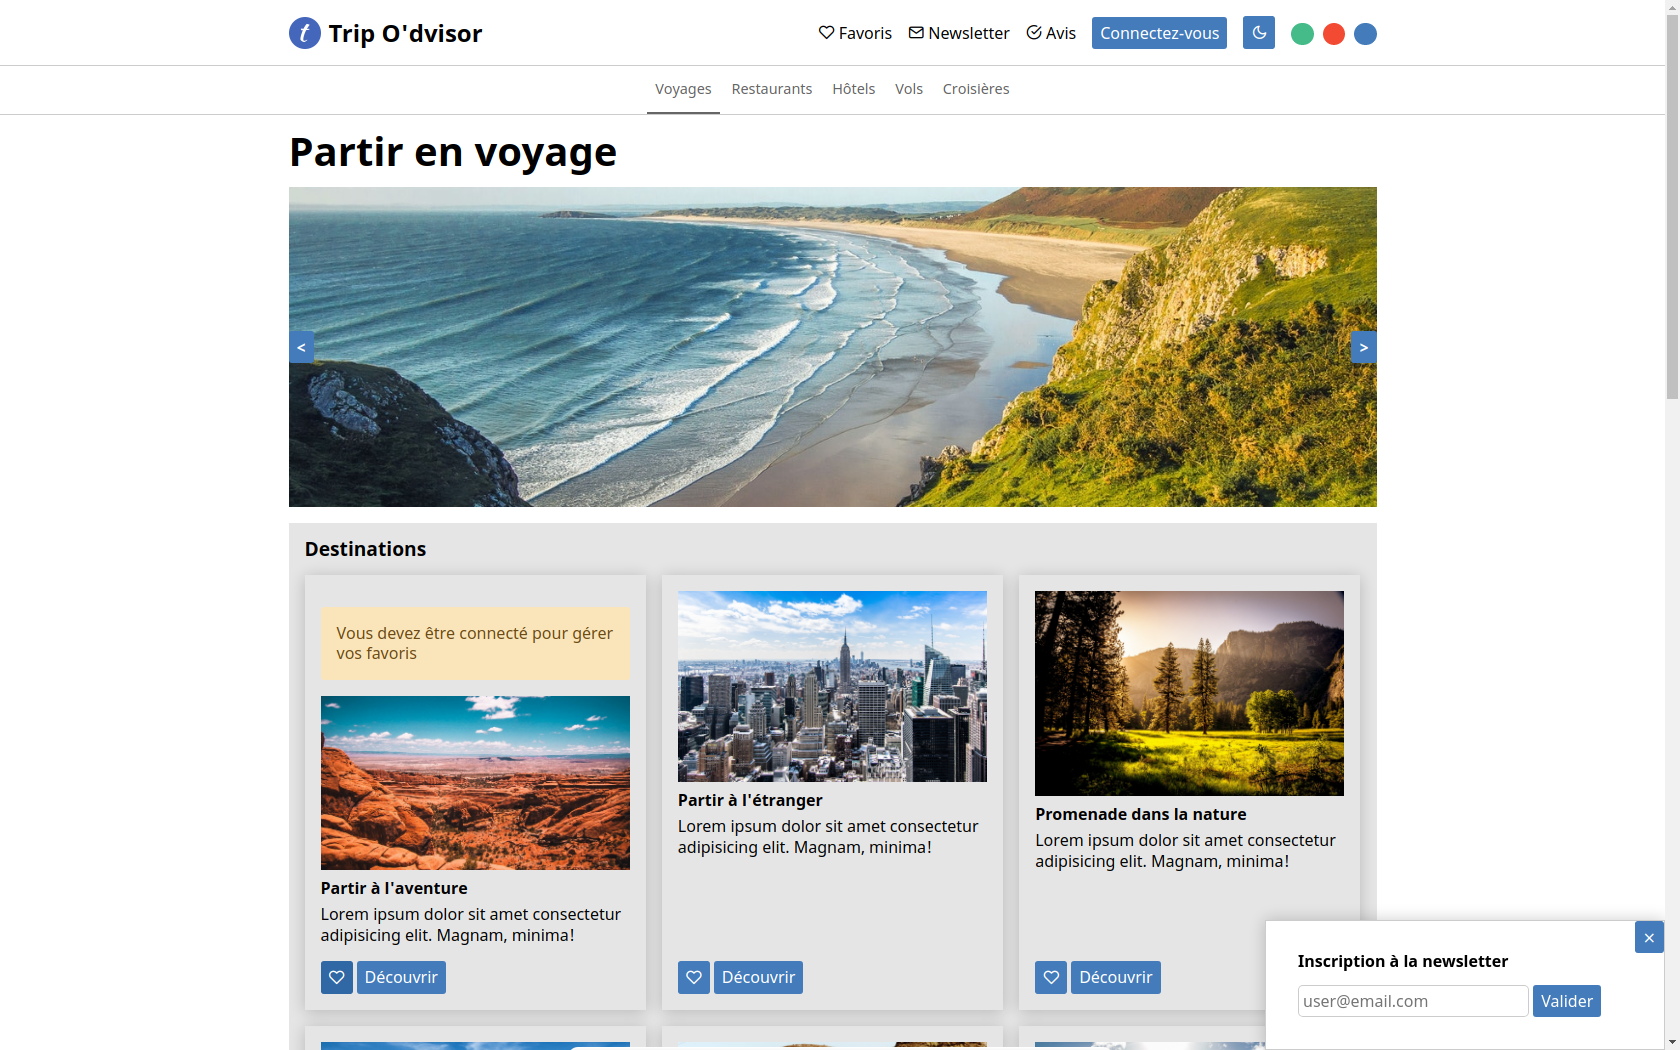
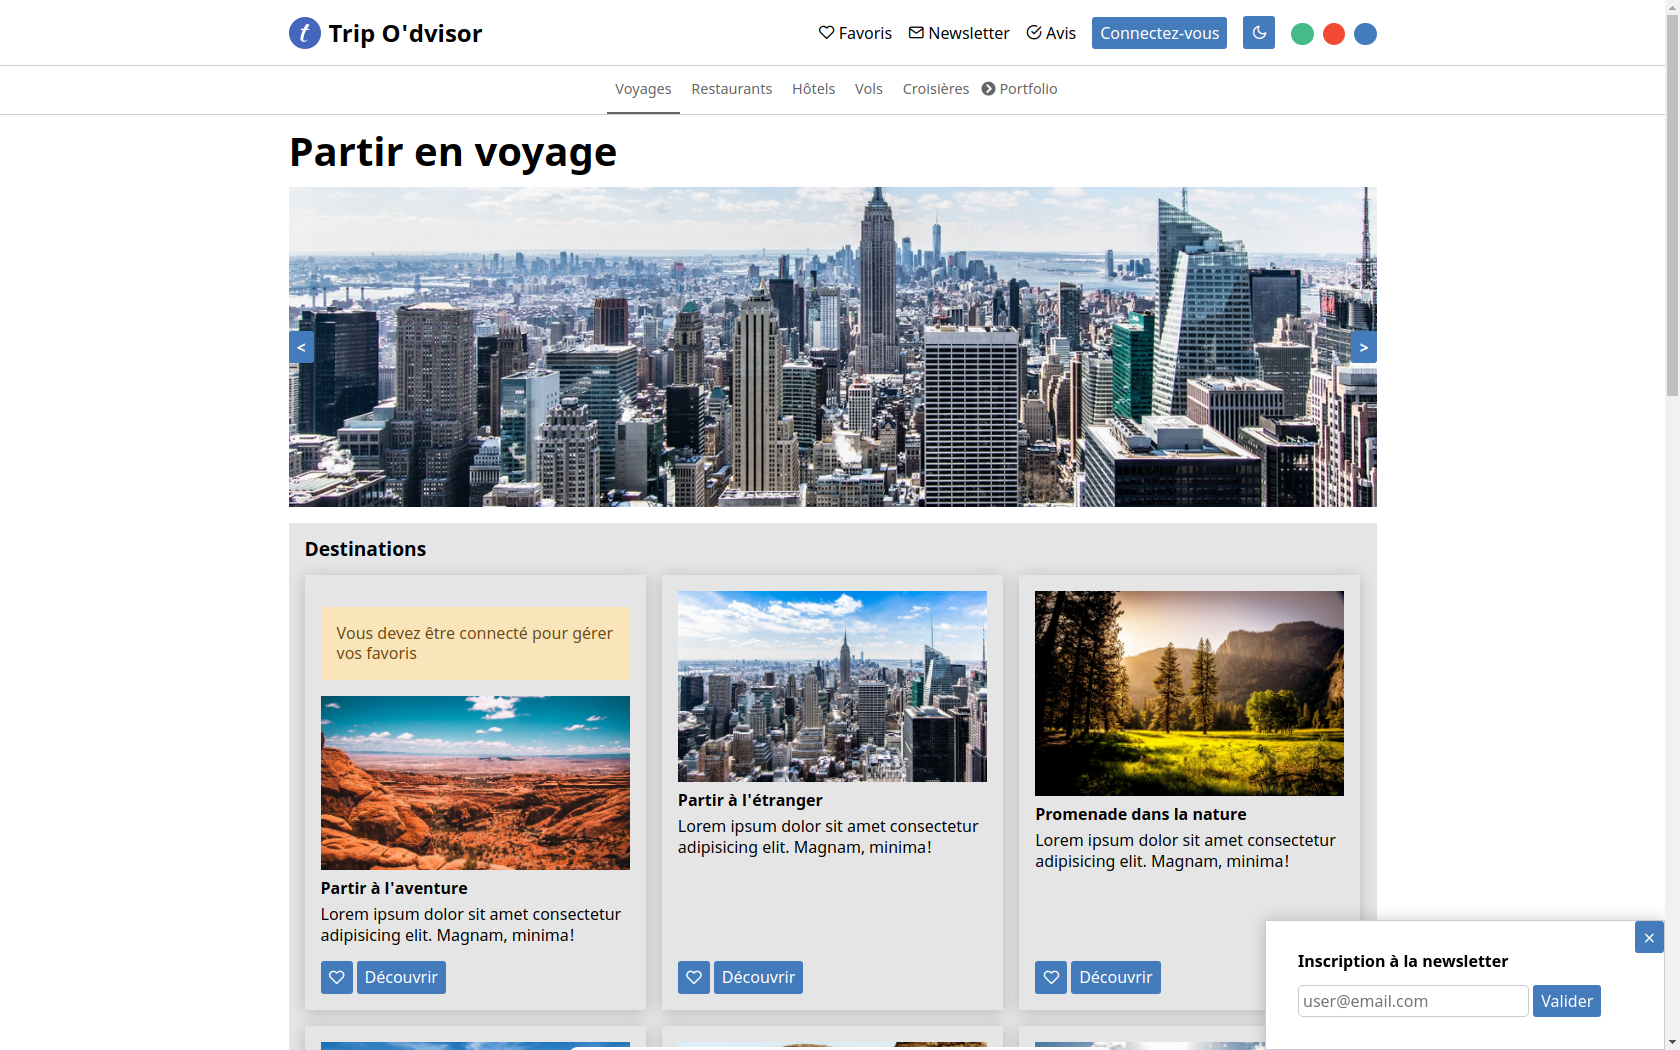
Adding portolio link : https://mounir-bmz.github.io/

Changed region(s): [[0.1548, 0.1524, 0.8357, 0.4876], [0.3714, 0.061, 0.619, 0.0914]]

diff --git a/index.html b/index.html
@@ -9,6 +9,7 @@
   <link rel="stylesheet" href="css/fonts.css">
   <link rel="stylesheet" href="css/styles.css">
   <link rel="shortcut icon" href="img/favicon.ico" type="image/x-icon">
+  <link rel="stylesheet" href="https://cdnjs.cloudflare.com/ajax/libs/font-awesome/5.15.4/css/all.min.css">
 </head>
 
 <body>
@@ -51,6 +52,8 @@
             <a class="submenu__item" href="">Hôtels</a>
             <a class="submenu__item" href="">Vols</a>
             <a class="submenu__item" href="">Croisières</a>
+            <a href="https://mounir-bmz.github.io/" target="_blank"><i class="fas fa-chevron-circle-right"></i>
+              Portfolio</a>
           </div>
         </div>
       </div>
@@ -250,7 +253,10 @@
     <div class="container">
       <p>
         Toute ressemblance avec d'autres contenus est purement fortuite.<br>
-        &copy; Mounir Boumaza 2023
+        &copy; Mounir Boumaza 2023<br>
+        <a href="https://github.com/Mounir-Bmz" target="_blank"><i class="fab fa-github"></i> GitHub</a>
+        <a href="https://mounir-bmz.github.io/" target="_blank"><i class="fas fa-chevron-circle-right"></i>
+          Portfolio</a>
       </p>
     </div>
   </footer>
